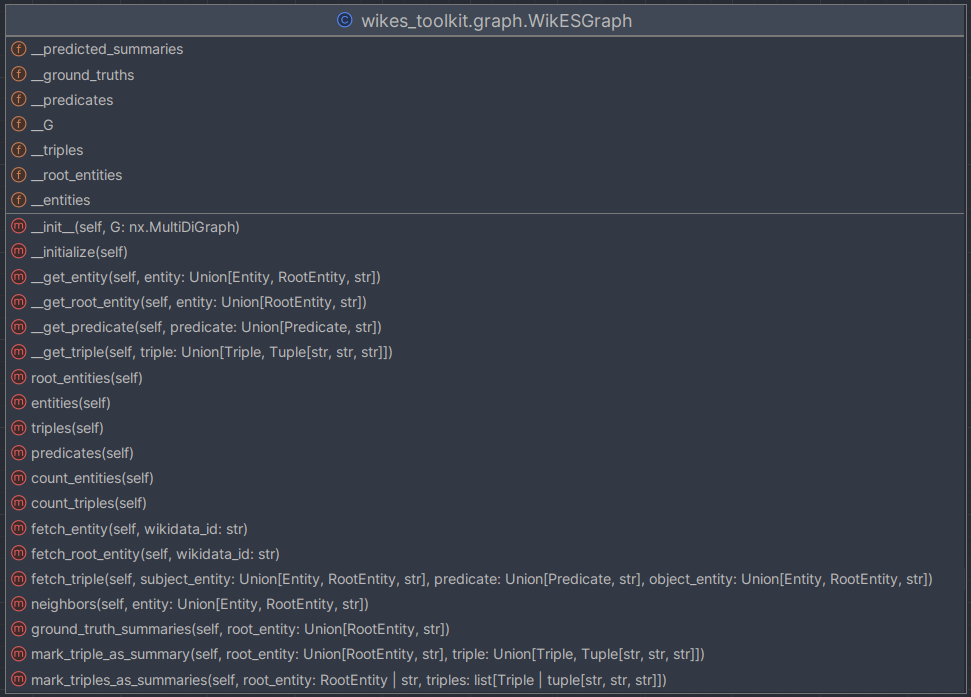
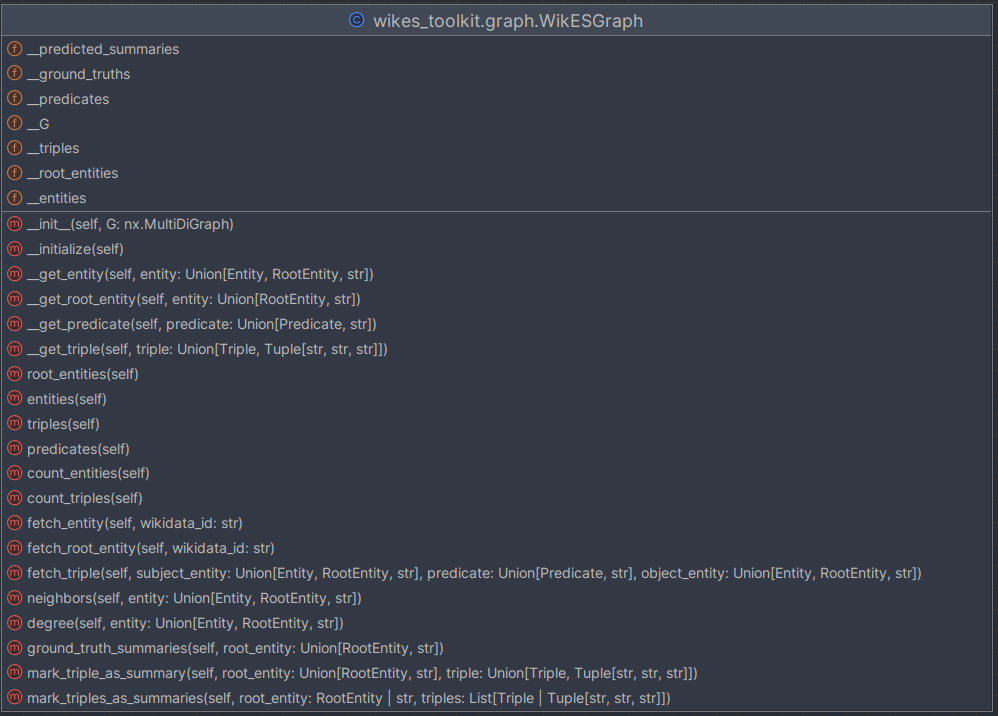
Add degree method

Changed region(s): [[0.0, 0.0, 1.0, 1.0]]

diff --git a/src/wikes_toolkit/graph.py b/src/wikes_toolkit/graph.py
@@ -147,8 +147,7 @@ class WikESGraph:
             raise ValueError(f"RootEntity with wikidata_id: {wikidata_id} not found")
         return self.__root_entities[wikidata_id]
 
-    def fetch_triple(self, subject_entity: Union[Entity, RootEntity, str], predicate: Union[Predicate, str],
-                     object_entity: Union[Entity, RootEntity, str]) -> Triple:
+    def fetch_triple(self, subject_entity: Union[Entity, RootEntity, str], predicate: Union[Predicate, str], object_entity: Union[Entity, RootEntity, str]) -> Triple:
         subject_entity = self.__get_entity(subject_entity)
         object_entity = self.__get_entity(object_entity)
         predicate = self.__get_predicate(predicate)
@@ -171,6 +170,10 @@ class WikESGraph:
             for u, v, data in self.__G.in_edges(entity_id, data=True)
         ])
         return neighbors
+
+    def degree(self, entity: Union[Entity, RootEntity, str]) -> int:
+        entity = self.__get_entity(entity)
+        return self.__G.degree(entity.wikidata_id)
 
     def ground_truth_summaries(self, root_entity: Union[RootEntity, str]) -> Set[Triple]:
         root_entity_id = self.__get_root_entity(root_entity).wikidata_id

diff --git a/README.md b/README.md
@@ -42,6 +42,7 @@ labels = G.predicates()
 number_of_nodes = G.count_entities()
 number_of_edges = G.count_triples()
 node = G.fetch_entity('Q303')
+node_degree = G.degree('Q303')
 neighbors = G.neighbors(node)
 # or  G.neighbors('Q303')
 ground_truth_summaries = G.ground_truth_summaries(root_nodes[0])
